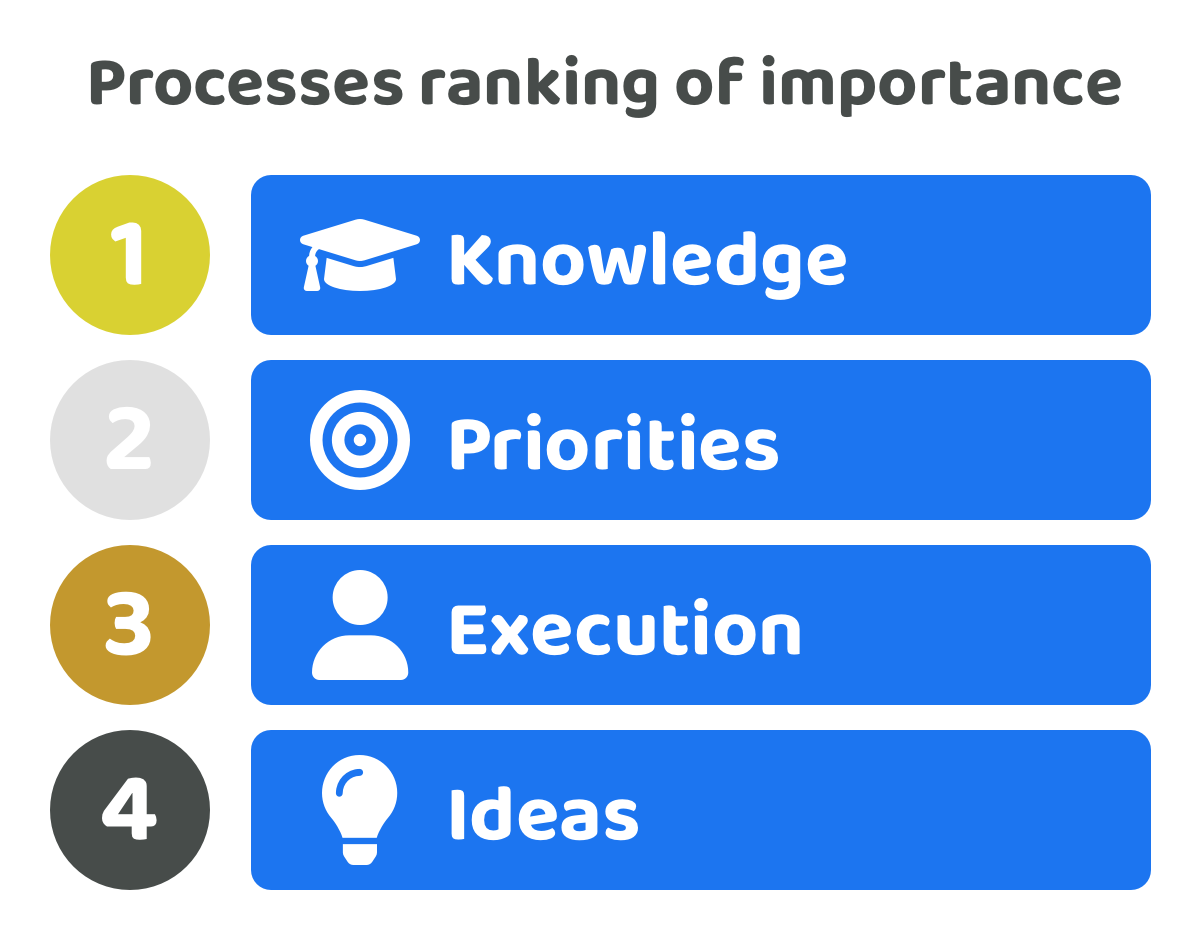
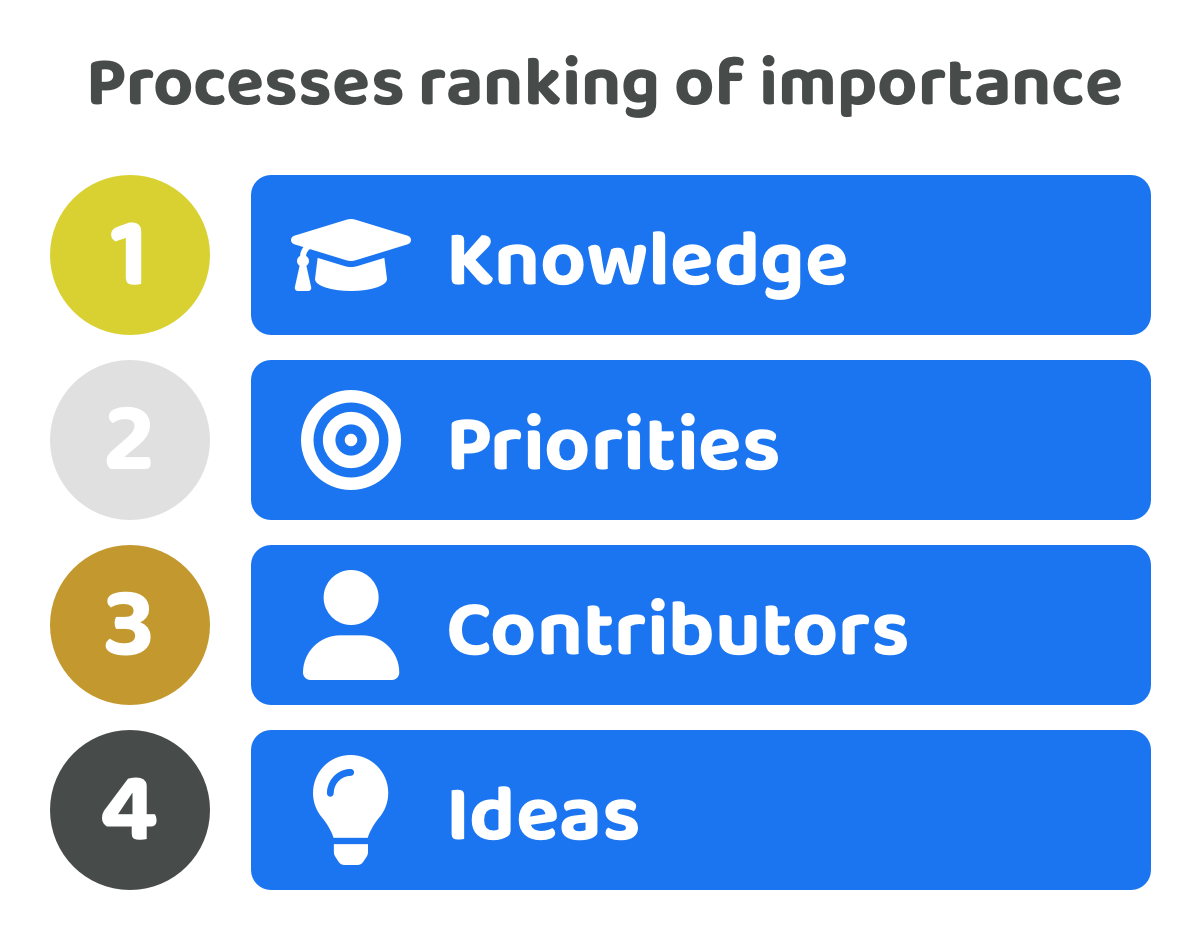
GITBOOK-83: change request with no subject merged in GitBook

diff --git a/disbursement-process/process-information.md b/disbursement-process/process-information.md
@@ -4,17 +4,19 @@ description: >-
   process
 ---
 
-# Disbursement process information
+# Process information
 
 A lot of information will often be needed to effectively operate a disbursement process. Voters need to be well informed when making decisions on how to effectively disburse treasury assets to generate impactful outcomes. A variety of different information is needed across each step of the disbursement process, voters will need to review this information to be sufficiently informed when making any decisions.
 
-<figure><img src="../../.gitbook/assets/disbursement-processes-gathered-information.jpg" alt=""><figcaption></figcaption></figure>
+<figure><img src="../.gitbook/assets/disbursement-processes-gathered-information (1).jpg" alt=""><figcaption></figcaption></figure>
+
+
 
 There is a vast amount of information that can be gathered prior to making any disbursement decisions. It is the application of this information that will heavily influence an ecosystems decision on what to prioritise, which ideas are the most promising and which contributors should help execute those ideas. Ideas will also include a wide range of information, a sufficient level of depth will often be needed to properly articulate how any suggested solution idea can effectively address a priority. The amount of information needed to understand the skills and experience of a contributor is also fairly sizeable, along with the ongoing information gathered about how those contributors operate together and the measured outcomes from executed ideas. Priorities may not require the same quantity of information as some of the other disbursement steps, but priorities could still see a moderate amount of information being gathered, this could come in the form of community responses that help highlight overall sentiment and feedback about the current priorities as they are being addressed over time.
 
 
 
-<figure><img src="../../.gitbook/assets/knowledge-title.png" alt=""><figcaption></figcaption></figure>
+<figure><img src="../.gitbook/assets/knowledge-title.png" alt=""><figcaption></figcaption></figure>
 
 **Potential information gathered in this process**
 
@@ -31,21 +33,19 @@ Any information relevant to the ecosystem that could help with making more well 
 
 
 
-<figure><img src="../../.gitbook/assets/priorities-title.png" alt=""><figcaption></figcaption></figure>
+<figure><img src="../.gitbook/assets/priorities-title.png" alt=""><figcaption></figcaption></figure>
 
 **Potential information gathered in this process**
 
-*   **Priority information:**
-
-
-* Title - Short sentence outlining the priority.
-* Description - The rationale behind why the priority is important and which of the relevant information made available has led to the suggestion of the priority.
-* Relevant knowledge - List of the relevant pieces of information that support why this priority is important at the moment.
-* Authors - Who created the priority, this could be a person, wallet address or it could be untracked and remain anonymous.
-* Community feedback & comments - Any feedback or comments provided by the community towards how the priority could be improved and what information might be missing or lacking to properly justify why the priority is important at the moment.
-* Voter sentiment - Community responses about the priority which could be around urgency or any other opportunities and concerns.
-* Current progress - Evidence of any current progress in achieving the priority or community responses indicating how much progress they believe has been made towards addressing the priority. Progress responses could help with identifying when priorities have already been addressed or when they are becoming less relevant or redundant.
-* Metadata - Date when the priority was submitted and any other dates and related information.
+* **Priority information:**
+  * Title - Short sentence outlining the priority.
+  * Description - The rationale behind why the priority is important and which of the relevant information made available has led to the suggestion of the priority.
+  * Relevant knowledge - List of the relevant pieces of information that support why this priority is important at the moment.
+  * Authors - Who created the priority, this could be a person, wallet address or it could be untracked and remain anonymous.
+  * Community feedback & comments - Any feedback or comments provided by the community towards how the priority could be improved and what information might be missing or lacking to properly justify why the priority is important at the moment.
+  * Voter sentiment - Community responses about the priority which could be around urgency or any other opportunities and concerns.
+  * Current progress - Evidence of any current progress in achieving the priority or community responses indicating how much progress they believe has been made towards addressing the priority. Progress responses could help with identifying when priorities have already been addressed or when they are becoming less relevant or redundant.
+  * Metadata - Date when the priority was submitted and any other dates and related information.
 
 
 
@@ -59,7 +59,7 @@ Any information relevant to the ecosystem that could help with making more well 
 
 
 
-<figure><img src="../../.gitbook/assets/ideas-title.png" alt=""><figcaption></figcaption></figure>
+<figure><img src="../.gitbook/assets/ideas-title.png" alt=""><figcaption></figcaption></figure>
 
 **Potential information gathered in this process**
 
@@ -93,7 +93,7 @@ Any information relevant to the ecosystem that could help with making more well 
 
 
 
-<figure><img src="../../.gitbook/assets/execution-title.png" alt=""><figcaption></figcaption></figure>
+<figure><img src="../.gitbook/assets/contributors-title.png" alt=""><figcaption></figcaption></figure>
 
 **Potential information gathered in this process**
 
@@ -102,7 +102,7 @@ Any information relevant to the ecosystem that could help with making more well 
   * Passions & preferences - Details about what the contributor is passionate about working on and what their current preferences are in terms of how they work and focus areas. This could also include why they might want to work in certain environments and ecosystems.
   * Compensation request - The expected amount of compensation that contributor is looking for when working in the ecosystem. This may also include some justifications and rationale towards why this compensation value is reasonable.
   * Education - A list of any educational credentials from schools, colleges, universities or online educational platforms. This could also include any other relevant forms of education such as from internships or apprenticeships.
-  * Professional background \*\*\*\*\*\*\*\*\*\*\*\*- The roles and responsibilities a contributor has previously had in other organisations and ecosystems. This could include their responsibilities, any achievements whilst in the role and the total amount of time they were working there for.
+  * Professional background - The roles and responsibilities a contributor has previously had in other organisations and ecosystems. This could include their responsibilities, any achievements whilst in the role and the total amount of time they were working there for.
   * Historical contributions - Evidence of any previous contributions made to different ecosystems that are relevant.
   * Historical participation - Evidence of where a contributor has participated previously such as events, conferences, hackathons or anything else that might be relevant.
   * Resources - Links to any resources that help provide more evidence about a contributors background, participation, contributions, skills and experience.

diff --git a/contributors/independent-contributor-process.md b/contributors/independent-contributor-process.md
@@ -1,24 +1,24 @@
 ---
 description: >-
-  Discussing the advantages and drawbacks of adopting an independent execution
+  Discussing the advantages and drawbacks of adopting an independent contributor
   process
 ---
 
-# Independent execution process
+# Independent contributor process
 
 <figure><img src="../.gitbook/assets/independent-execution-process.png" alt=""><figcaption></figcaption></figure>
 
-An independent execution process means that the suggestion and selection of the most suitable contributors to help contribute towards executing ideas in an ecosystem is done separately from how priorities or ideas get suggested or selected.
+An independent contributor process means that the suggestion and selection of the most suitable contributors to help contribute towards executing ideas in an ecosystem is done separately from how priorities or ideas get suggested or selected.
 
 The main connection that execution has with the disbursement process is through the execution of ideas. Contributors working within an ecosystem are able to contribute towards addressing ecosystem priorities by executing the most promising ideas.
 
 When thinking about the connection between ideas and execution there are a number of complicated factors that will require further experimentation to better determine when it makes sense to adopt any of the different independent execution process approaches. Some main areas of concern will be around team synergies, productive working structures and idea ownership.
 
-There are a range of potential advantages for adopting an independent execution process due to how it can help with increasing flexibility and collaboration for contributors and also help create much simpler, scalable and more flexible decision making process for voters.
+There are a range of potential advantages for adopting an independent contributor process due to how it can help with increasing flexibility and collaboration for contributors and also help create much simpler, scalable and more flexible decision making process for voters.
 
 
 
-**Advantages of an independent execution process**
+**Advantages of an independent contributor process**
 
 * **Lower voter participation complexity** - A voter could just participate in the contributor selection process and does not need to help with the selection of the most promising ideas. Similarly voters could also just participate in idea selection if they didn’t want to participate in contributor selection. By keeping this process independent a wider range of community members may choose to participate in either the idea or contributor selection processes based on which they are interested in and have the capacity for.
 * **More voter choice flexibility** - Separating idea and contributor selection means that voters can decide on exactly which ideas and contributors they believe are the most promising and important. The voter is able to express their opinion and preferences exactly for which ideas are most promising and which contributors could be the most effective. When ideas and contributors are combined the voter only have the choice to react to what combinations are submitted by the contributors who suggest the ideas.
@@ -30,7 +30,7 @@ There are a range of potential advantages for adopting an independent execution 
 
 
 
-**Drawbacks of an independent execution process**
+**Drawbacks of an independent contributor process**
 
 * **Execution risks around idea ownership** - If contributors are not connected to ideas in the same selection process then there is a risk of having changing or conflicting leadership during the execution of those ideas. Complex ideas can require strong leadership from people who have the right experience, competencies and willingness to take an idea all the way through to execution. The more complex an idea is the more important it will be to have the right leadership in place so that an idea is executed effectively. An independent process could potentially address this problem by considering additional processes that help with the selection of leaders for certain ideas where they would have partial or full control over the contributors who should be involved and/or the approach being taken for execution. This area of concern will require more analysis and experimentation to identify when this is an issue and the different ways it could be resolved.
 * **Team synergy risks** - If contributors are able to move more freely between ideas to execute the most promising ones to provide the most value for an ecosystem there is an increased risk that the team dynamics could not be as productive or effective. Building teams that have sufficient amounts of rapport with each other can take time. An independent idea selection process will need to factor in how teams are formed for the different ideas and whether team building should be pre-determined, be organised in a separate process after idea selection or if it can be work when being determined by the voters.

diff --git a/disbursement-process/processes-ranking-of-importance.md b/disbursement-process/processes-ranking-of-importance.md
@@ -8,15 +8,17 @@ description: >-
 
 <div align="left">
 
-<figure><img src="../../.gitbook/assets/processes-ranking-of-importance.png" alt="" width="563"><figcaption></figcaption></figure>
+<figure><img src="../.gitbook/assets/processes-ranking-of-importance.png" alt="" width="563"><figcaption></figcaption></figure>
 
 </div>
+
+
 
 Knowledge is the most important part of the disbursement process as it influences every single other process and how effectively decisions are made in those processes. Making good priorities are also fundamental for an ecosystem so they can create achievable and impactful outcomes. Without good prioritisation the probability of creating impactful outcomes from the ideas any execution is reduced. The contributors involved in the execution of any ideas will directly determine the actual outcomes that are generated. Ideas are also important for the process however there can be many ideas that are relevant and effective for addressing ecosystem priorities. The execution of those ideas and what gets learnt whilst executing them will generate more learnings to improve any of the initial ideas that get selected. The quality and speed of the operating process for executing ideas along with how the ongoing progress is measured and reviewed will create new learnings that can be highly insightful and important for updating any existing ideas or introducing new ones. A group of contributors will apply those ongoing learnings to help with better addressing an ecosystems priorities over time.
 
 
 
-<figure><img src="../../.gitbook/assets/knowledge-title.png" alt=""><figcaption></figcaption></figure>
+<figure><img src="../.gitbook/assets/knowledge-title.png" alt=""><figcaption></figcaption></figure>
 
 **Impact on other processes**
 
@@ -32,7 +34,7 @@ Knowledge has a monumental impact on every part of the disbursement process. Due
 
 
 
-<figure><img src="../../.gitbook/assets/priorities-title.png" alt=""><figcaption></figcaption></figure>
+<figure><img src="../.gitbook/assets/priorities-title.png" alt=""><figcaption></figcaption></figure>
 
 **Impact on other processes**
 
@@ -47,7 +49,7 @@ Good prioritisation will play a vital role in which ecosystems stagnate or thriv
 
 
 
-<figure><img src="../../.gitbook/assets/ideas-title.png" alt=""><figcaption></figcaption></figure>
+<figure><img src="../.gitbook/assets/ideas-title.png" alt=""><figcaption></figcaption></figure>
 
 **Impact on other processes**
 
@@ -61,7 +63,7 @@ Generating and selecting the right ideas is an important part of being able to a
 
 
 
-<figure><img src="../../.gitbook/assets/execution-title.png" alt=""><figcaption></figcaption></figure>
+<figure><img src="../.gitbook/assets/contributors-title.png" alt=""><figcaption></figcaption></figure>
 
 **Impact on other processes**
 

diff --git a/disbursement-process/delegating-process-decisions.md b/disbursement-process/delegating-process-decisions.md
@@ -4,7 +4,7 @@ description: >-
   different disbursement processes
 ---
 
-# Delegating disbursement process decisions
+# Delegating process decisions
 
 Understanding the importance of voting delegation is the acceptance that not everyone in an ecosystem has to fully participate in every decision that gets made. Delegation is an important part of giving voters a choice in how they want to participate and making it easier for complex ecosystems to scale through making it easier and more flexible to vote.
 
@@ -16,7 +16,7 @@ You cannot prevent people from delegating their vote to other people as the abil
 
 ## Example differences in community member participation
 
-<figure><img src="../../.gitbook/assets/disbursement-process-participation.jpg" alt=""><figcaption></figcaption></figure>
+<figure><img src="../.gitbook/assets/disbursement-process-participation.jpg" alt=""><figcaption></figcaption></figure>
 
 The above example helps to illustrate how different people could want to participate in an ecosystems disbursement decisions:
 
@@ -26,7 +26,7 @@ The above example helps to illustrate how different people could want to partici
 
 
 
-<figure><img src="../../.gitbook/assets/knowledge-title.png" alt=""><figcaption></figcaption></figure>
+<figure><img src="../.gitbook/assets/knowledge-title.png" alt=""><figcaption></figcaption></figure>
 
 **What could be delegated?**
 
@@ -52,7 +52,7 @@ For larger ecosystems the likelihood of people needing to delegate their vote fo
 
 
 
-<figure><img src="../../.gitbook/assets/priorities-title.png" alt=""><figcaption></figcaption></figure>
+<figure><img src="../.gitbook/assets/priorities-title.png" alt=""><figcaption></figcaption></figure>
 
 **What could be delegated?**
 
@@ -78,7 +78,7 @@ The larger and more complex an ecosystem becomes the more likely it will be that
 
 
 
-<figure><img src="../../.gitbook/assets/ideas-title.png" alt=""><figcaption></figcaption></figure>
+<figure><img src="../.gitbook/assets/ideas-title.png" alt=""><figcaption></figcaption></figure>
 
 **What could be delegated?**
 
@@ -104,7 +104,7 @@ Ecosystems that have a higher complexity of ideas that go through the disburseme
 
 
 
-<figure><img src="../../.gitbook/assets/execution-title.png" alt=""><figcaption></figcaption></figure>
+<figure><img src="../.gitbook/assets/contributors-title.png" alt=""><figcaption></figcaption></figure>
 
 **What could be delegated?**
 

diff --git a/disbursement-process/process-complexity.md b/disbursement-process/process-complexity.md
@@ -8,6 +8,8 @@ Disbursing treasury assets to create impactful outcomes is a complex task that h
 
 <figure><img src="../.gitbook/assets/disbursement-process-complexity.png" alt=""><figcaption></figcaption></figure>
 
+
+
 Each of the knowledge, priority, idea and execution steps involved in the disbursement process share a number of complexities that make it more difficult to allocate treasury assets and scale the process:
 
 * **Information complexity** - Each part of the process highly benefits from participants having a strong grasp of the relevant information in the ecosystem to make informed decisions. Learning this information and handling the quantity of information that is available makes for a highly complex process to scale due to the time commitment that would be required by many community members. The more time it takes for community members to participate in a disbursement process the more you could expect to see voter apathy or disengagement in the process due to the high complexity and time commitment.
@@ -50,7 +52,7 @@ Each of the knowledge, priority, idea and execution steps involved in the disbur
 
 
 
-<figure><img src="../.gitbook/assets/execution-title.png" alt=""><figcaption></figcaption></figure>
+<figure><img src="../.gitbook/assets/contributors-title.png" alt=""><figcaption></figcaption></figure>
 
 **Complexities**
 

diff --git a/disbursement-process/process-rate-of-change.md b/disbursement-process/process-rate-of-change.md
@@ -14,6 +14,8 @@ Ideas are likely the next major area in the disbursement process that could see 
 
 <figure><img src="../.gitbook/assets/disbursement-process-rate-of-change.jpg" alt=""><figcaption><p>Disbursement process rate of change suggestions</p></figcaption></figure>
 
+
+
 Applying some approximate suggestions to think about these rates of change helps to highlight how important it is to consider how any treasury disbursement process is able to handle environments that have fast changing amounts of knowledge available. Any ecosystem will want to consider and respond to this knowledge when making disbursement decisions. If ideas are likely to change fairly frequently then the question to ask is how will the adopted systems and processes for disbursement cater for those changes? Can those changes to ideas be performed easily and effortlessly by the contributors responsible so they are better aligned with addressing ecosystem priorities?
 
 
@@ -60,7 +62,7 @@ If some part of an overall idea needs to be changed or improved to respond to ne
 
 
 
-<figure><img src="../.gitbook/assets/execution-title.png" alt=""><figcaption></figcaption></figure>
+<figure><img src="../.gitbook/assets/contributors-title.png" alt=""><figcaption></figcaption></figure>
 
 **What changes and how often?**
 

diff --git a/knowledge/knowledge-incentives.md b/knowledge/knowledge-incentives.md
@@ -42,4 +42,4 @@ Creating or updating knowledge sources can be time consuming for the contributor
 
 **Potential incentive approaches**
 
-The process of incentivising new knowledge can go through the same idea and execution approaches as already covered. This means new knowledge systems or one of pieces of knowledge could be selected by voters through the different disbursement approaches that have been already covered. The [idea incentives](../ideas/idea-incentives.md) and [execution incentives](../execution/execution-incentives.md) pieces of analysis help to cover the types of incentives that could be used to create new knowledge.
+The process of incentivising new knowledge can go through the same idea and execution approaches as already covered. This means new knowledge systems or one of pieces of knowledge could be selected by voters through the different disbursement approaches that have been already covered. The [idea incentives](../ideas/idea-incentives.md) and [execution incentives](../contributors/contributor-incentives.md) pieces of analysis help to cover the types of incentives that could be used to create new knowledge.

diff --git a/SUMMARY.md b/SUMMARY.md
@@ -78,10 +78,10 @@
 * [Idea incentives](ideas/idea-incentives.md)
 * [Approaches for handling idea costs](ideas/approaches-for-handling-idea-costs.md)
 
-## Execution
+## Contributors
 
-* [Independent execution process](execution/independent-execution-process.md)
-* [Execution incentives](execution/execution-incentives.md)
+* [Independent contributor process](contributors/independent-contributor-process.md)
+* [Contributor incentives](contributors/contributor-incentives.md)
 
 ## 🔗 Links
 

diff --git a/contributors/contributor-incentives.md b/contributors/contributor-incentives.md
@@ -1,10 +1,14 @@
 ---
-description: Exploring how incentives could be used to operate the execution process
+description: Exploring how incentives could be used to compensate contributors
 ---
 
-# Execution Incentives
+# Contributor incentives
 
-![](../.gitbook/assets/incentive-execution.png)
+<div align="left">
+
+<figure><img src="../.gitbook/assets/execution-incentives.png" alt=""><figcaption></figcaption></figure>
+
+</div>
 
 
 

diff --git a/disbursement-process/disbursement-operating-process.md b/disbursement-process/disbursement-operating-process.md
@@ -110,7 +110,7 @@ Ideas could often be welcomed from a range of participants involved in either na
 
 
 
-<figure><img src="../.gitbook/assets/execution-title.png" alt=""><figcaption></figcaption></figure>
+<figure><img src="../.gitbook/assets/contributors-title.png" alt=""><figcaption></figcaption></figure>
 
 **Process steps**
 
